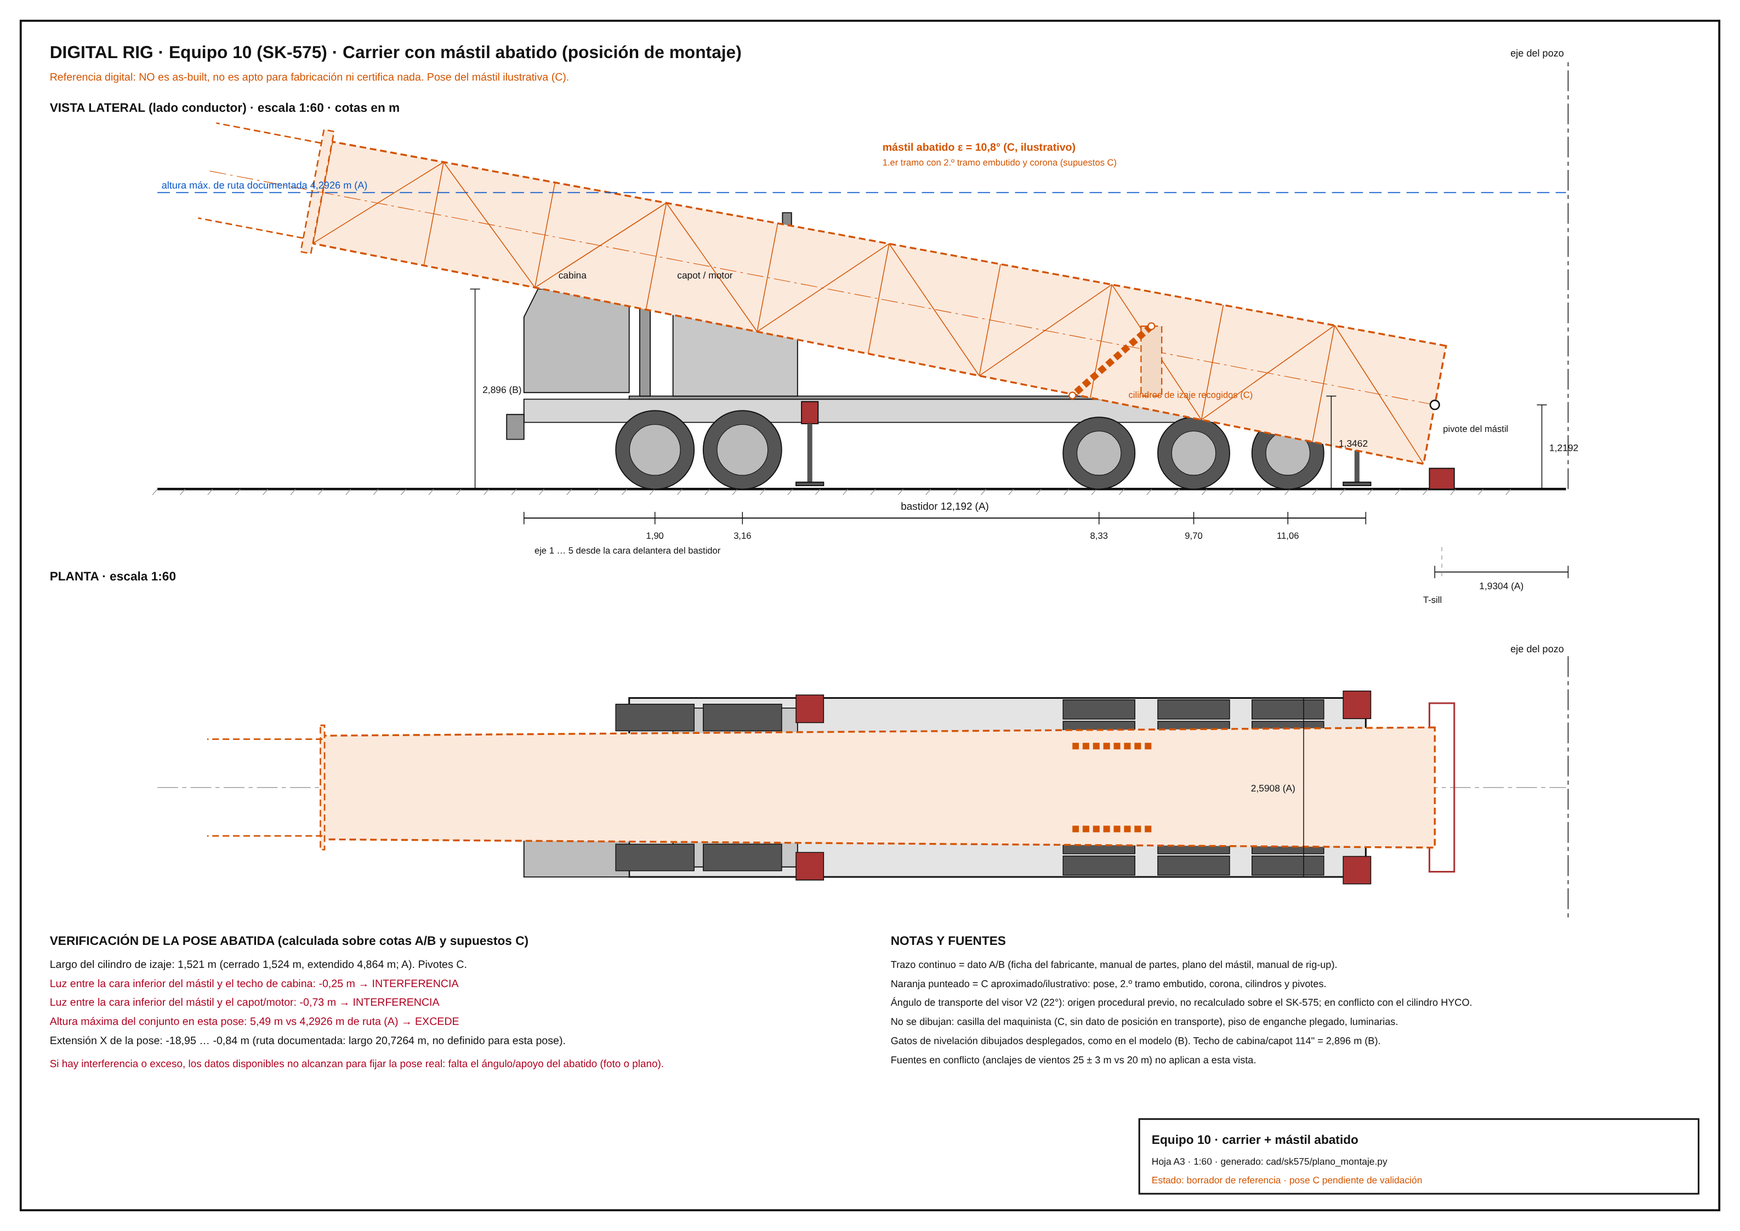
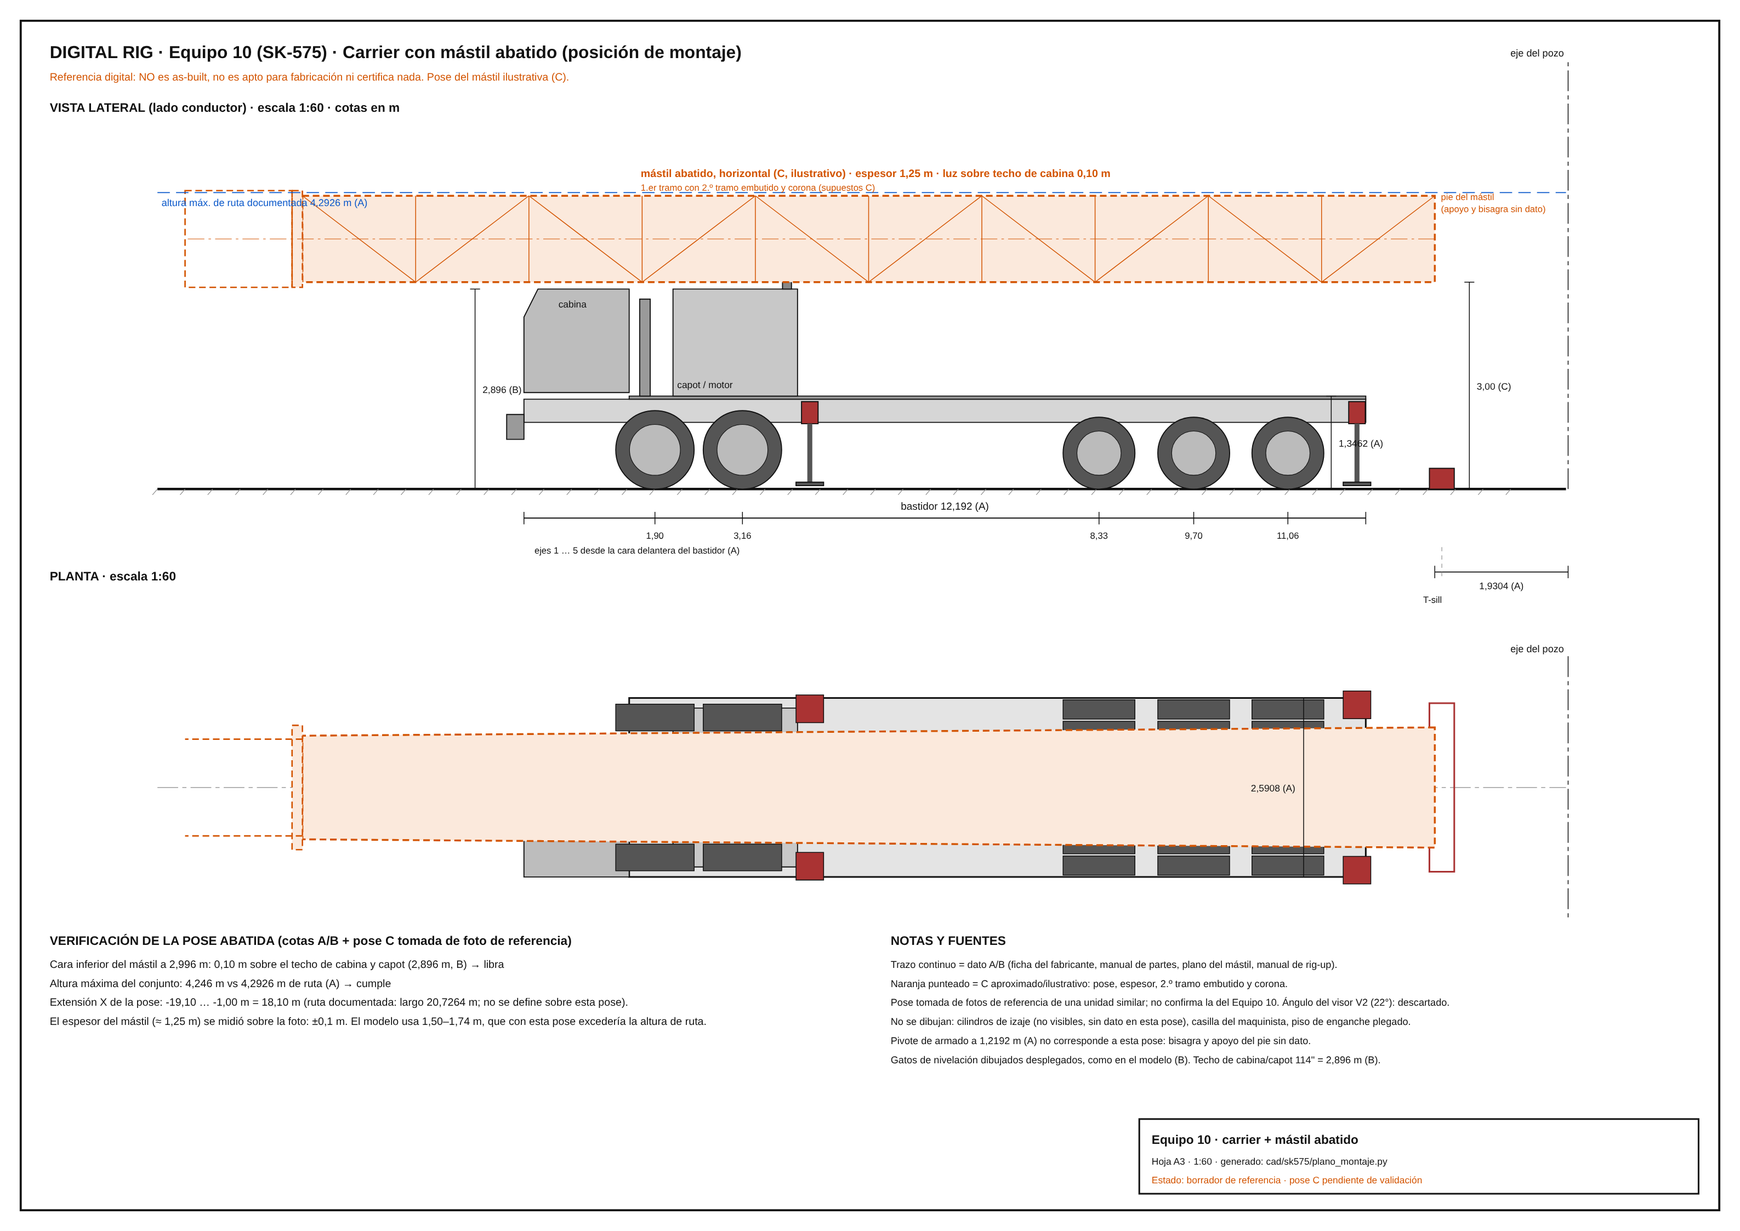
docs: plano del mástil abatido con pose horizontal tomada de foto de referencia (C)
Reemplaza la pose inclinada con cilindros cerrados (interfería con cabina/capot y excedía la altura de ruta). Mástil horizontal, cara
inferior 0,10 m sobre el techo de cabina, espesor 1,25 m medido sobre foto (±0,1 m); sin cilindros de izaje (sin dato en esta pose).

Claude-Session: https://claude.ai/code/session_014z4gaeADS6rkUrP9d6fvrv

diff --git a/cad/sk575/plano_montaje.py b/cad/sk575/plano_montaje.py
@@ -1,30 +1,28 @@
 """Plano del carrier del Equipo 10 (SK-575) con el mástil abatido (posición de montaje): elevación + planta, A3, 1:60.
 
-Solo stdlib. Cotas A/B de `reference/v2-previo/src/technical-spec.js` (RIG_10.sk575) y de `modelo.py`; todo lo demás va en
-naranja punteado = C (ilustrativo). La pose abatida NO está documentada: el ángulo es un parámetro (--eps). Por defecto es el que
-deja los cilindros de izaje en su largo cerrado (1,524 m, A) con los pivotes estimados (C).
+Solo stdlib. Cotas A/B de `reference/v2-previo/src/technical-spec.js` (RIG_10.sk575) y de `modelo.py`; la pose del mástil va en
+naranja punteado = C. No está documentada: se toma de fotos de referencia de una unidad similar (mástil horizontal, cara inferior
+apenas sobre el techo de cabina, espesor ≈ 1,25 m medido sobre la foto, ±0,1 m). Parámetros: --prof (espesor) y --luz (cara inferior
+sobre el techo de cabina).
 
-    python3 cad/sk575/plano_montaje.py [--eps 10.8] [--out docs/planos/equipo10-carrier-mastil-abatido.svg]
+    python3 cad/sk575/plano_montaje.py [--prof 1.25] [--luz 0.10] [--out docs/planos/equipo10-carrier-mastil-abatido.svg]
 """
 import argparse
-from math import atan2, cos, hypot, pi, radians, sin
+import os
 
 IN = 0.0254
 # ── cotas (m) ─────────────────────────────────────────────────────────────────────────────────────────────────────────────
 FRAME_IN, WIDTH_IN, ZK = 480, 102, 53 * IN                    # bastidor 40 ft, ancho 102", cubierta a 53" (A)
 FR = -2.0 - FRAME_IN * IN                                      # cara delantera del bastidor; la trasera queda en −2,0
 HW = WIDTH_IN / 2 * IN
-MX, ZB = -1.0, 48 * IN                                         # pivote del mástil: X del modelo (B), 4'-0" sobre el suelo (A)
+MX = -1.0                                                      # pie del mástil abatido: X del modelo (B)
 WELL = MX + 76 * IN                                            # eje del pozo: 76" (1,9304 m) del pie del mástil (A)
 TSILL = WELL - 72 * IN                                         # T-sill a 6 ft del pozo (A)
 AXLES_IN = (74.7, 124.6, 327.9, 381.9, 435.6)                  # desde la cara delantera (A)
-H_INF, H_SUP = 16.4, 15.2992                                   # tramos del mástil (A)
-W0, W1 = 1.74, 1.50                                            # ancho del 1.er tramo, pie y cabeza (B)
+H_INF = 16.4                                                   # 1.er tramo del mástil (A)
+W0, W1 = 1.74, 1.50                                            # ancho del 1.er tramo en planta, pie y cabeza (B)
 CROWN_H, CROWN_W = 1.7, 1.8                                    # corona sobre el tope del tramo (C)
 ROAD_H, ROAD_L = 4.2926, 20.7264                               # envolvente de ruta documentada (A)
-HYCO_CLOSED, HYCO_EXT = 1.524, 4.8641                          # cilindro de izaje (A)
-PIV = (-5.1046, 2.3582)                                        # pie del cilindro sobre el carrier (C)
-PIN_S, PIN_D = 6.4 - ZB, 1.85 - 1.0                            # perno superior: s a lo largo del eje, d hacia la cara trasera (C)
 CAB_ROOF = 114 * IN                                            # techo de cabina y capot (B)
 CAB = (FR, FR + 60 * IN)                                       # cabina X 0–60"
 HOOD = (FR + 85 * IN, FR + 156 * IN)                           # capot/motor X 85–156"
@@ -34,60 +32,18 @@ def fmt(v, n=2):
     return f"{v:.{n}f}".replace(".", ",")
 
 
-def pose(eps):
-    e = radians(eps)
-    a = (-cos(e), sin(e))                                      # eje del mástil abatido hacia la cabina (−X)
-    nrm = (sin(e), cos(e))                                     # normal "arriba"
-    return e, a, nrm
+def checks(prof, luz):
+    z0 = CAB_ROOF + luz
+    return {"cabina": luz, "capot": luz, "alto": z0 + prof, "xmin": MX - H_INF - CROWN_H, "xmax": MX}
 
 
-def halfw(s):
-    return (W0 + (W1 - W0) * min(s, H_INF) / H_INF) / 2
-
-
-def at(eps, s, off):
-    """Punto del mástil abatido: s a lo largo del eje desde el pivote, off sobre la normal (+ = arriba)."""
-    _, a, n = pose(eps)
-    return (MX + s * a[0] + off * n[0], ZB + s * a[1] + off * n[1])
-
-
-def pin(eps):
-    return at(eps, PIN_S, -PIN_D)                              # cara trasera del mástil = abajo al abatir
-
-
-def solve_closed():
-    lo, hi = 0.0, 30.0
-    for _ in range(60):                                        # largo del cilindro decrece con eps en [0, ~24°]
-        mid = (lo + hi) / 2
-        p = pin(mid)
-        if hypot(p[0] - PIV[0], p[1] - PIV[1]) > HYCO_CLOSED:
-            lo = mid
-        else:
-            hi = mid
-    return (lo + hi) / 2
-
-
-def checks(eps):
-    out = {}
-    p = pin(eps)
-    out["cil"] = hypot(p[0] - PIV[0], p[1] - PIV[1])
-    gaps = {"cabina": (CAB, CAB_ROOF), "capot": (HOOD, CAB_ROOF)}
-    for k, ((x0, x1), roof) in gaps.items():
-        g = min(at(eps, i * 0.02, -halfw(i * 0.02))[1] - roof
-                for i in range(int(H_INF / 0.02) + 1) if x0 <= at(eps, i * 0.02, -halfw(i * 0.02))[0] <= x1)
-        out[k] = g
-    top = max(at(eps, H_INF + CROWN_H, CROWN_W / 2)[1], at(eps, H_INF + CROWN_H, -CROWN_W / 2)[1])
-    out["alto"] = top
-    out["xmin"] = min(at(eps, H_INF + CROWN_H, o)[0] for o in (CROWN_W / 2, -CROWN_W / 2))
-    out["xmax"] = max(at(eps, 0, o)[0] for o in (halfw(0), -halfw(0)))
-    return out
-
-
-def build(eps):
+def build(prof, luz):
     K = 1000 / 60                                              # mm por m (1:60)
     XMIN, X0 = -19.5, 38.0                                     # X (m) en el borde izquierdo / mm en la hoja
     GY = 118.0                                                 # y (mm) del terreno en la elevación
     PY = 190.0                                                 # y (mm) del eje de la planta
+    ZS = CAB_ROOF + luz                                        # cara inferior del mástil
+    ZC = ZS + prof / 2                                         # eje del mástil
 
     def ex(x):
         return X0 + (x - XMIN) * K
@@ -105,17 +61,15 @@ def build(eps):
         d = f' stroke-dasharray="{dash}"' if dash else ""
         add(f'<line x1="{x1:.2f}" y1="{y1:.2f}" x2="{x2:.2f}" y2="{y2:.2f}" stroke="{c}" stroke-width="{w}"{d}/>')
 
-    def poly(pts, fill="none", w=0.25, c="#111", dash=None, close=True):
+    def poly(pts, fill="none", w=0.25, c="#111", dash=None):
         d = f' stroke-dasharray="{dash}"' if dash else ""
-        tag = "polygon" if close else "polyline"
-        add(f'<{tag} points="{" ".join(f"{x:.2f},{y:.2f}" for x, y in pts)}" fill="{fill}" stroke="{c}" stroke-width="{w}"{d}/>')
+        add(f'<polygon points="{" ".join(f"{x:.2f},{y:.2f}" for x, y in pts)}" fill="{fill}" stroke="{c}" stroke-width="{w}"{d}/>')
 
     def rect(x0, y0, x1, y1, fill="none", w=0.25, c="#111", dash=None):
         poly([(x0, y0), (x1, y0), (x1, y1), (x0, y1)], fill, w, c, dash)
 
-    def text(x, y, t, size=2.6, anchor="start", c="#111", weight="normal", rot=0):
-        r = f' transform="rotate({rot} {x:.2f} {y:.2f})"' if rot else ""
-        add(f'<text x="{x:.2f}" y="{y:.2f}" font-size="{size}" text-anchor="{anchor}" fill="{c}" font-weight="{weight}"{r}>{t}</text>')
+    def text(x, y, t, size=2.6, anchor="start", c="#111", weight="normal"):
+        add(f'<text x="{x:.2f}" y="{y:.2f}" font-size="{size}" text-anchor="{anchor}" fill="{c}" font-weight="{weight}">{t}</text>')
 
     ORG, GRY = "#d35400", "#d6d6d6"
     CD = "1.6 0.9"                                             # punteado de los elementos C
@@ -154,59 +108,44 @@ def build(eps):
         rect(x - 0.2 * K, ez(0.05), x + 0.2 * K, ez(0.1), "#555")
     rect(ex(TSILL - 0.18), ez(0.3), ex(TSILL + 0.18), ez(0), "#a33")
 
-    # mástil abatido (C)
+    # mástil abatido (C): 1.er tramo horizontal con el 2.º embutido, y corona
+    x0, x1 = MX, MX - H_INF
+    rect(ex(x1), ez(ZS + prof), ex(x0), ez(ZS), "#fbe9dc", 0.45, ORG, CD)
     n = 10
-    pts = [at(eps, i * H_INF / 200, halfw(i * H_INF / 200)) for i in range(201)] + \
-          [at(eps, (200 - i) * H_INF / 200, -halfw((200 - i) * H_INF / 200)) for i in range(201)]
-    poly([(ex(x), ez(z)) for x, z in pts], "#fbe9dc", 0.45, ORG, CD)
     for i in range(n):
-        s0, s1 = i * H_INF / n, (i + 1) * H_INF / n
-        a_, b_ = (at(eps, s0, halfw(s0)), at(eps, s1, -halfw(s1))) if i % 2 else (at(eps, s0, -halfw(s0)), at(eps, s1, halfw(s1)))
-        line(ex(a_[0]), ez(a_[1]), ex(b_[0]), ez(b_[1]), 0.2, ORG)
-        t0, t1 = at(eps, s1, halfw(s1)), at(eps, s1, -halfw(s1))
-        line(ex(t0[0]), ez(t0[1]), ex(t1[0]), ez(t1[1]), 0.2, ORG)
-    cp = [at(eps, H_INF, CROWN_W / 2), at(eps, H_INF + 0.15, CROWN_W / 2), at(eps, H_INF + 0.15, -CROWN_W / 2), at(eps, H_INF, -CROWN_W / 2)]
-    poly([(ex(x), ez(z)) for x, z in cp], "#fbe9dc", 0.35, ORG, CD)
-    for off in (0.7, -0.7):
-        a_, b_ = at(eps, H_INF + 0.15, off), at(eps, H_INF + CROWN_H, off)
-        line(ex(a_[0]), ez(a_[1]), ex(b_[0]), ez(b_[1]), 0.35, ORG, CD)
-    c0, c1 = at(eps, 0, 0), at(eps, H_INF + CROWN_H, 0)
-    line(ex(c0[0]), ez(c0[1]), ex(c1[0]), ez(c1[1]), 0.15, ORG, "4 1 0.6 1")
-    add(f'<circle cx="{ex(MX):.2f}" cy="{ez(ZB):.2f}" r="1.1" fill="#fff" stroke="#111" stroke-width="0.35"/>')
-    text(ex(MX) + 2, ez(ZB) + 6.5, "pivote del mástil", 2.2)
-
-    # cilindros de izaje (C): pedestal, camisa/émbolo recogidos
-    p = pin(eps)
-    rect(ex(PIV[0] - 0.15), ez(PIV[1]), ex(PIV[0] + 0.15), ez(ZK), "#f3d9c4", 0.3, ORG, CD)
-    line(ex(PIV[0]), ez(PIV[1]), ex(p[0]), ez(p[1]), 1.6, ORG, CD)
-    for q in (PIV, p):
-        add(f'<circle cx="{ex(q[0]):.2f}" cy="{ez(q[1]):.2f}" r="0.8" fill="#fff" stroke="{ORG}" stroke-width="0.3"/>')
+        xa, xb = x0 - i * H_INF / n, x0 - (i + 1) * H_INF / n
+        za, zb = (ZS, ZS + prof) if i % 2 else (ZS + prof, ZS)
+        line(ex(xa), ez(za), ex(xb), ez(zb), 0.2, ORG)
+        line(ex(xb), ez(ZS), ex(xb), ez(ZS + prof), 0.2, ORG)
+    xc = x1 - CROWN_H
+    rect(ex(x1) - 0.15 * K, ez(ZC + 0.7), ex(x1), ez(ZC - 0.7), "#fbe9dc", 0.35, ORG, CD)
+    rect(ex(xc), ez(ZC + 0.7), ex(x1) - 0.15 * K, ez(ZC - 0.7), "none", 0.35, ORG, CD)
+    line(ex(x0), ez(ZC), ex(xc), ez(ZC), 0.15, ORG, "4 1 0.6 1")
 
     # eje del pozo y envolvente de ruta
     line(ex(WELL), ez(0), ex(WELL), ez(6.2), 0.2, "#111", "5 1 1 1")
     text(ex(WELL) - 1, ez(6.2) - 1, "eje del pozo", 2.4, anchor="end")
     line(ex(XMIN), ez(ROAD_H), ex(0.9), ez(ROAD_H), 0.25, "#0a58ca", "3 1.5")
-    text(ex(XMIN) + 1, ez(ROAD_H) - 1, f"altura máx. de ruta documentada {fmt(ROAD_H, 4)} m (A)", 2.4, c="#0a58ca")
+    text(ex(XMIN) + 1, ez(ROAD_H) + 3.2, f"altura máx. de ruta documentada {fmt(ROAD_H, 4)} m (A)", 2.4, c="#0a58ca")
 
     # cotas
-    def vdim(x_m, z0, z1, label, dx=0):
-        x = ex(x_m) + dx
+    def vdim(x_m, z0, z1, label):
+        x = ex(x_m)
         line(x, ez(z0), x, ez(z1), 0.2)
         for z in (z0, z1):
             line(x - 1.2, ez(z), x + 1.2, ez(z), 0.2)
         text(x + 1.8, (ez(z0) + ez(z1)) / 2 + 1, label, 2.3)
 
-    vdim(0.55, 0, ZB, f"{fmt(ZB, 4)}", 0)
-    vdim(-14.9, 0, CAB_ROOF, f"{fmt(CAB_ROOF, 3)} (B)", 0)
-    vdim(-2.5, 0, ZK, f"{fmt(ZK, 4)}", 0)
+    vdim(-14.9, 0, CAB_ROOF, f"{fmt(CAB_ROOF, 3)} (B)")
+    vdim(-2.5, 0, ZK, f"{fmt(ZK, 4)} (A)")
+    vdim(MX + 0.5, 0, ZS, f"{fmt(ZS, 2)} (C)")
     yb = ez(0) + 7
-    xs = [FR] + [FR + a * IN for a in AXLES_IN]
     line(ex(FR), yb, ex(-2.0), yb, 0.25)
-    for x in [FR, -2.0] + xs[1:]:
+    for x in [FR, -2.0] + [FR + a * IN for a in AXLES_IN]:
         line(ex(x), yb - 1.5, ex(x), yb + 1.5, 0.2)
-    for i, a in enumerate(AXLES_IN):
+    for a in AXLES_IN:
         text(ex(FR + a * IN), yb + 5, f"{fmt(a * IN)}", 2.2, anchor="middle")
-    text(ex(FR + 6 * IN), yb + 8.5, "eje 1 … 5 desde la cara delantera del bastidor", 2.2)
+    text(ex(FR + 6 * IN), yb + 8.5, "ejes 1 … 5 desde la cara delantera del bastidor (A)", 2.2)
     text(ex((FR - 2.0) / 2), yb - 2, f"bastidor {fmt(FRAME_IN * IN, 3)} (A)", 2.5, anchor="middle")
     yb2 = yb + 13
     line(ex(MX), yb2, ex(WELL), yb2, 0.25)
@@ -216,13 +155,13 @@ def build(eps):
     line(ex(TSILL), yb2 - 6, ex(TSILL), yb2 + 1.5, 0.15, "#888", "1 1")
     text(ex(TSILL), yb2 + 7.5, "T-sill", 2.2, anchor="end")
 
-    # rótulos de elementos
-    text(ex(FR + 0.5), ez(CAB_ROOF) - 2.5, "cabina", 2.3)
-    text(ex(HOOD[0]) + 1, ez(CAB_ROOF) - 2.5, "capot / motor", 2.3)
-    text(ex(-9.0), ez(4.9), f"mástil abatido ε = {fmt(eps, 1)}°  (C, ilustrativo)", 2.6, c=ORG, weight="bold")
-    text(ex(-9.0), ez(4.9) + 3.6, "1.er tramo con 2.º tramo embutido y corona (supuestos C)", 2.2, c=ORG)
-    pm = ((PIV[0] + p[0]) / 2, (PIV[1] + p[1]) / 2)
-    text(ex(pm[0]) + 4, ez(pm[1]) + 9, "cilindros de izaje recogidos (C)", 2.2, c=ORG)
+    # rótulos
+    text(ex(FR + 0.5), ez(CAB_ROOF) + 4.5, "cabina", 2.3)
+    text(ex(HOOD[0]) + 1, ez(ZK) - 2, "capot / motor", 2.3)
+    text(ex(-12.5), ez(ZS + prof) - 4.5, f"mástil abatido, horizontal (C, ilustrativo)  ·  espesor {fmt(prof)} m  ·  luz sobre techo de cabina {fmt(luz)} m", 2.6, c=ORG, weight="bold")
+    text(ex(-12.5), ez(ZS + prof) - 1.2, "1.er tramo con 2.º tramo embutido y corona (supuestos C)", 2.2, c=ORG)
+    text(ex(MX) + 1.5, ez(ZS + prof) + 1, "pie del mástil", 2.2, c=ORG)
+    text(ex(MX) + 1.5, ez(ZS + prof) + 4, "(apoyo y bisagra sin dato)", 2.2, c=ORG)
 
     # ── PLANTA ───────────────────────────────────────────────────────────────────────────────────────────────────────────
     text(12, 140, "PLANTA  ·  escala 1:60", 3, weight="bold")
@@ -243,25 +182,14 @@ def build(eps):
         for sg in (-1, 1):
             rect(ex(FR + xin * IN - 0.2), py(sg * y + 0.2), ex(FR + xin * IN + 0.2), py(sg * y - 0.2), "#a33", 0.2)
     rect(ex(TSILL - 0.18), py(1.22), ex(TSILL + 0.18), py(-1.22), "none", 0.4, "#a33")
-    pts = [at(eps, i * H_INF / 100, 0) for i in range(101)]
-    L = []
-    R = []
-    for i in range(101):
-        ss = i * H_INF / 100
-        x = at(eps, ss, 0)[0]
-        L.append((ex(x), py(halfw(ss))))
-        R.append((ex(x), py(-halfw(ss))))
-    poly(L + R[::-1], "#fbe9dc", 0.45, ORG, CD)
-    xt = at(eps, H_INF, 0)[0]
-    xt2 = at(eps, H_INF + CROWN_H, 0)[0]
-    rect(ex(xt) - 0.5, py(CROWN_W / 2), ex(xt) + 0.5, py(-CROWN_W / 2), "#fbe9dc", 0.35, ORG, CD)
-    line(ex(xt), py(0.7), ex(xt2), py(0.7), 0.35, ORG, CD)
-    line(ex(xt), py(-0.7), ex(xt2), py(-0.7), 0.35, ORG, CD)
-    for y in (-0.6, 0.6):
-        line(ex(PIV[0]), py(y), ex(p[0]), py(y), 1.6, ORG, CD)
+    top = [(ex(MX - H_INF * i / 100), py((W0 + (W1 - W0) * i / 100) / 2)) for i in range(101)]
+    bot = [(ex(MX - H_INF * i / 100), py(-(W0 + (W1 - W0) * i / 100) / 2)) for i in range(100, -1, -1)]
+    poly(top + bot, "#fbe9dc", 0.45, ORG, CD)                                        # ancho en planta: modelo (B)
+    rect(ex(x1) - 0.15 * K, py(CROWN_W / 2), ex(x1), py(-CROWN_W / 2), "#fbe9dc", 0.35, ORG, CD)
+    line(ex(x1), py(0.7), ex(xc), py(0.7), 0.35, ORG, CD)
+    line(ex(x1), py(-0.7), ex(xc), py(-0.7), 0.35, ORG, CD)
     line(ex(WELL), py(1.9), ex(WELL), py(-1.9), 0.2, "#111", "5 1 1 1")
     text(ex(WELL) - 1, py(1.9) - 1, "eje del pozo", 2.4, anchor="end")
-    # cota de ancho
     xw = ex(-2.9)
     line(xw, py(HW), xw, py(-HW), 0.2)
     for y in (HW, -HW):
@@ -269,29 +197,27 @@ def build(eps):
     text(xw - 2, py(0) + 1, f"{fmt(WIDTH_IN * IN, 4)} (A)", 2.3, anchor="end")
 
     # ── CUADRO DE VERIFICACIÓN Y NOTAS ───────────────────────────────────────────────────────────────────────────────────
-    ck = checks(eps)
+    ck = checks(prof, luz)
     y0 = 228
-    text(12, y0, "VERIFICACIÓN DE LA POSE ABATIDA (calculada sobre cotas A/B y supuestos C)", 3, weight="bold")
+    text(12, y0, "VERIFICACIÓN DE LA POSE ABATIDA (cotas A/B + pose C tomada de foto de referencia)", 3, weight="bold")
 
     def row(i, t, bad=False):
         text(12, y0 + 5.5 + i * 4.6, t, 2.6, c="#b00020" if bad else "#111")
 
-    row(0, f"Largo del cilindro de izaje: {fmt(ck['cil'], 3)} m (cerrado {fmt(HYCO_CLOSED, 3)} m, extendido {fmt(HYCO_EXT, 3)} m; A). Pivotes C.")
-    row(1, f"Luz entre la cara inferior del mástil y el techo de cabina: {fmt(ck['cabina'], 2)} m  " + ("→ INTERFERENCIA" if ck["cabina"] < 0 else "→ libra"), ck["cabina"] < 0)
-    row(2, f"Luz entre la cara inferior del mástil y el capot/motor: {fmt(ck['capot'], 2)} m  " + ("→ INTERFERENCIA" if ck["capot"] < 0 else "→ libra"), ck["capot"] < 0)
-    row(3, f"Altura máxima del conjunto en esta pose: {fmt(ck['alto'], 2)} m  vs  {fmt(ROAD_H, 4)} m de ruta (A)  " + ("→ EXCEDE" if ck["alto"] > ROAD_H else "→ cumple"), ck["alto"] > ROAD_H)
-    row(4, f"Extensión X de la pose: {fmt(ck['xmin'], 2)} … {fmt(ck['xmax'], 2)} m (ruta documentada: largo {fmt(ROAD_L, 4)} m, no definido para esta pose).")
-    text(12, y0 + 5.5 + 5 * 4.6 + 1, "Si hay interferencia o exceso, los datos disponibles no alcanzan para fijar la pose real: falta el ángulo/apoyo del abatido (foto o plano).", 2.5, c="#b00020")
+    row(0, f"Cara inferior del mástil a {fmt(ZS, 3)} m: {fmt(luz)} m sobre el techo de cabina y capot ({fmt(CAB_ROOF, 3)} m, B)  " + ("→ INTERFERENCIA" if luz < 0 else "→ libra"), luz < 0)
+    row(1, f"Altura máxima del conjunto: {fmt(ck['alto'], 3)} m  vs  {fmt(ROAD_H, 4)} m de ruta (A)  " + ("→ EXCEDE" if ck["alto"] > ROAD_H else "→ cumple"), ck["alto"] > ROAD_H)
+    row(2, f"Extensión X de la pose: {fmt(ck['xmin'], 2)} … {fmt(ck['xmax'], 2)} m = {fmt(ck['xmax'] - ck['xmin'], 2)} m (ruta documentada: largo {fmt(ROAD_L, 4)} m; no se define sobre esta pose).")
+    row(3, "El espesor del mástil (≈ 1,25 m) se midió sobre la foto: ±0,1 m. El modelo usa 1,50–1,74 m, que con esta pose excedería la altura de ruta.")
 
     xn = 215
     text(xn, y0, "NOTAS Y FUENTES", 3, weight="bold")
     notes = [
         "Trazo continuo = dato A/B (ficha del fabricante, manual de partes, plano del mástil, manual de rig-up).",
-        "Naranja punteado = C aproximado/ilustrativo: pose, 2.º tramo embutido, corona, cilindros y pivotes.",
-        "Ángulo de transporte del visor V2 (22°): origen procedural previo, no recalculado sobre el SK-575; en conflicto con el cilindro HYCO.",
-        "No se dibujan: casilla del maquinista (C, sin dato de posición en transporte), piso de enganche plegado, luminarias.",
+        "Naranja punteado = C aproximado/ilustrativo: pose, espesor, 2.º tramo embutido y corona.",
+        "Pose tomada de fotos de referencia de una unidad similar; no confirma la del Equipo 10. Ángulo del visor V2 (22°): descartado.",
+        "No se dibujan: cilindros de izaje (no visibles, sin dato en esta pose), casilla del maquinista, piso de enganche plegado.",
+        "Pivote de armado a 1,2192 m (A) no corresponde a esta pose: bisagra y apoyo del pie sin dato.",
         "Gatos de nivelación dibujados desplegados, como en el modelo (B). Techo de cabina/capot 114\" = 2,896 m (B).",
-        "Fuentes en conflicto (anclajes de vientos 25 ± 3 m vs 20 m) no aplican a esta vista.",
     ]
     for i, t in enumerate(notes):
         text(xn, y0 + 5.5 + i * 4.6, t, 2.4)
@@ -307,12 +233,11 @@ def build(eps):
 
 if __name__ == "__main__":
     ap = argparse.ArgumentParser()
-    ap.add_argument("--eps", type=float, default=None, help="elevación del mástil sobre la horizontal (°); por defecto, cilindros cerrados")
+    ap.add_argument("--prof", type=float, default=1.25, help="espesor visible del mástil abatido (m), medido sobre foto")
+    ap.add_argument("--luz", type=float, default=0.10, help="cara inferior del mástil sobre el techo de cabina (m)")
     ap.add_argument("--out", default="docs/planos/equipo10-carrier-mastil-abatido.svg")
     a = ap.parse_args()
-    eps = a.eps if a.eps is not None else round(solve_closed(), 1)
-    svg, ck = build(eps)
-    import os
+    svg, ck = build(a.prof, a.luz)
     os.makedirs(os.path.dirname(a.out), exist_ok=True)
     open(a.out, "w", encoding="utf-8").write(svg)
-    print(f"eps={eps}° " + " ".join(f"{k}={v:.3f}" for k, v in ck.items()) + f" → {a.out}")
+    print(" ".join(f"{k}={v:.3f}" for k, v in ck.items()) + f" → {a.out}")
